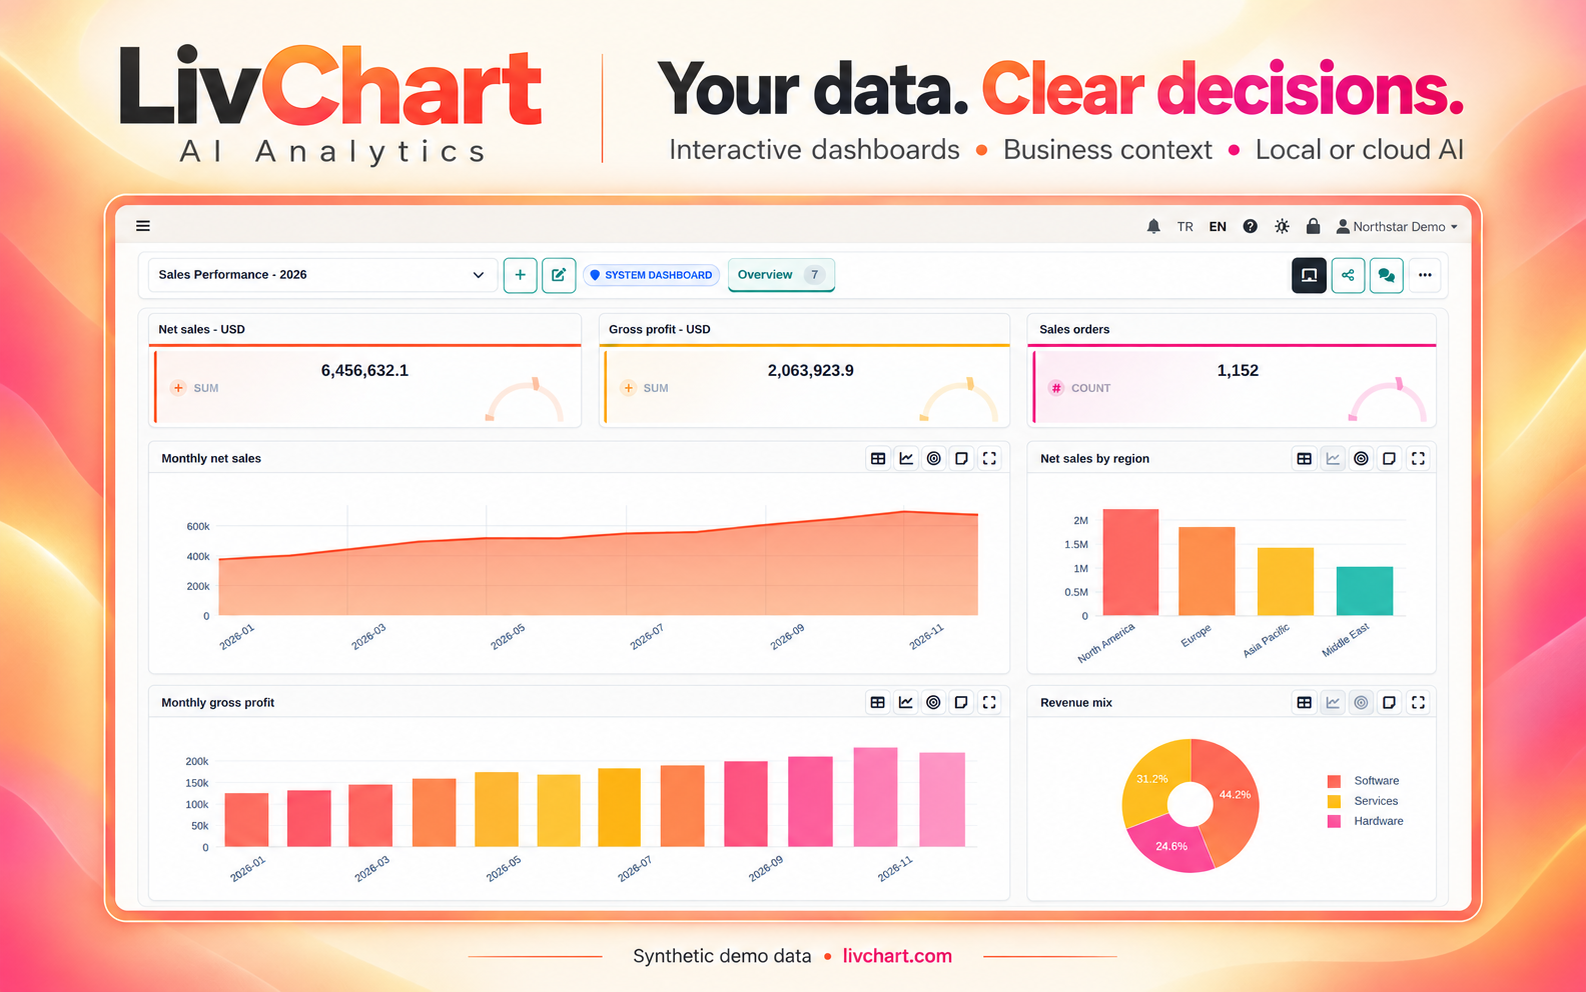
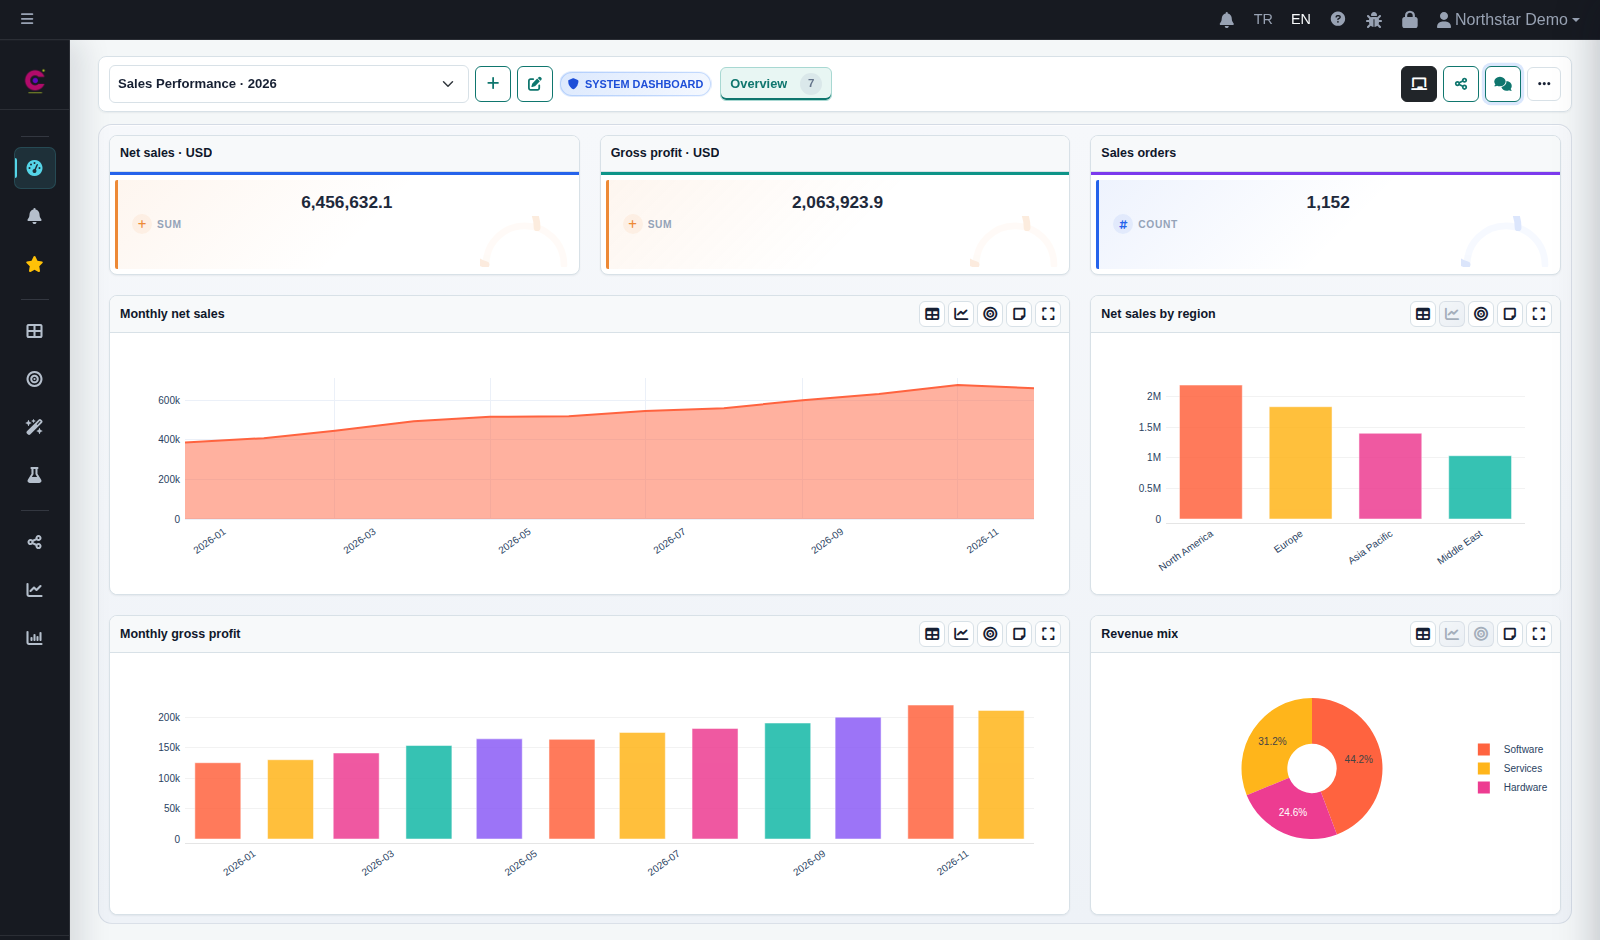
Use an authentic dashboard capture with vivid chart colors
Capture the dashboard directly from LivChart 3.4.9 using its metric-spec color settings and synthetic sales data.

diff --git a/README.md b/README.md
@@ -6,9 +6,9 @@ Connect business data, define shared metrics, and turn questions into interactiv
 
 **[Explore the demo](https://livchart.com/en#demo)** · **[Discuss your deployment](https://livchart.com/en#contact-form)** · **[Download LivChart](https://github.com/livchart/livchart/releases/latest)**
 
-![LivChart AI Analytics — Your data. Clear decisions. A designed cover featuring a synthetic sales dashboard.](assets/livchart-cover.png)
+![LivChart 3.4.9 sales dashboard rendered in the application with a vivid chart palette and synthetic demo data.](assets/livchart-cover.png)
 
-*Sales performance in one workspace. Cover artwork based on the [original application screenshot](assets/sales-dashboard.png). All examples use synthetic demonstration data.*
+*Sales performance in one workspace. [Full-size application screenshot](assets/sales-dashboard.png), captured directly from LivChart 3.4.9 with a vivid chart palette. All examples use synthetic demonstration data.*
 
 ## From a business question to a shared decision
 
